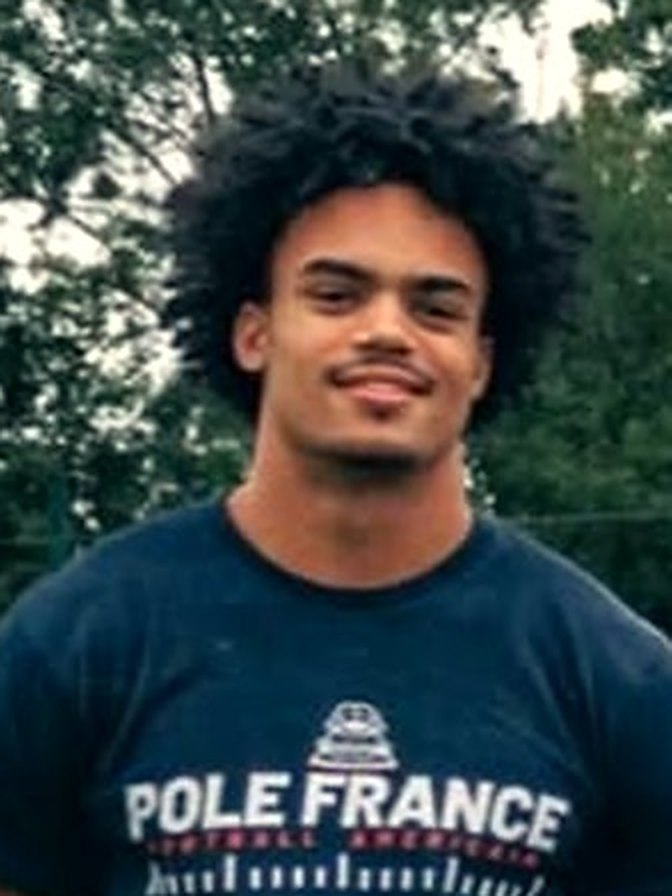
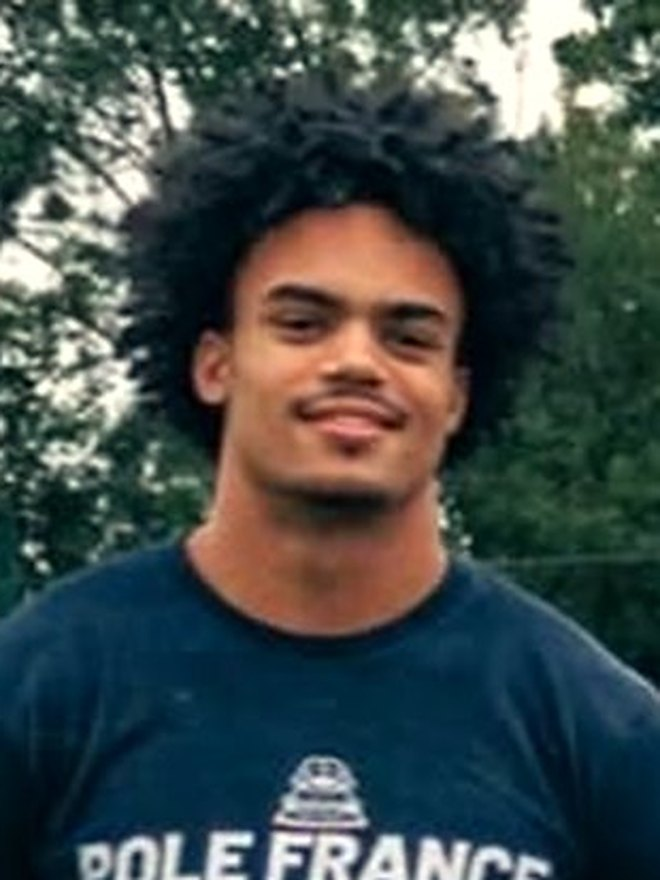
Pôle France photo recentred, garden photo removed, footer credit
- Meet Kenji: Pôle France photo centred with the full hair visible
- Begin page: garden photo removed, form centred
- Footer on every page: website credit linking to sportifhybride.com

Claude-Session: https://claude.ai/code/session_015sta4d6tC7hQHjYkkdC7PH

diff --git a/INNE-site/js/texts.js b/INNE-site/js/texts.js
@@ -319,7 +319,8 @@ window.INNE_I18N = {
   "rv.how_t": "How reviews work",
   "rv.how": "Only clients who have followed an INNÉ path can post, with a personal one-time code. Kenji reads every review before it is published. Reviews are never refused for being negative: only insulting, off-topic or false content, or content revealing personal data, is removed. No review is paid for or rewarded. Reviews are shown from newest to oldest by default, with their publication date.",
   "rv.stars": "{n} out of 5",
-  "rv.verified": "Verified client"
+  "rv.verified": "Verified client",
+  "ft.credit": "Website created by Victor Castillo. Want a site like this one? <a href=\"https://sportifhybride.com/creation-site\" target=\"_blank\" rel=\"noopener\">Click here</a>."
  },
  "es": {
   "nav.home": "Inicio",
@@ -640,7 +641,8 @@ window.INNE_I18N = {
   "rv.how_t": "Cómo funcionan las opiniones",
   "rv.how": "Solo pueden publicar los clientes que han seguido un camino INNÉ, con un código personal de un solo uso. Kenji lee cada opinión antes de publicarla. Nunca se rechaza una opinión por ser negativa: solo se retiran los contenidos insultantes, fuera de tema, falsos o que revelen datos personales. Ninguna opinión se paga ni se recompensa. Por defecto, las opiniones se muestran de la más reciente a la más antigua, con su fecha de publicación.",
   "rv.stars": "{n} de 5",
-  "rv.verified": "Cliente verificado"
+  "rv.verified": "Cliente verificado",
+  "ft.credit": "Sitio web creado por Victor Castillo. ¿Quieres un sitio como este? <a href=\"https://sportifhybride.com/creation-site\" target=\"_blank\" rel=\"noopener\">Haz clic aquí</a>."
  },
  "fr": {
   "nav.home": "Accueil",
@@ -961,7 +963,8 @@ window.INNE_I18N = {
   "rv.how_t": "Comment fonctionnent les avis",
   "rv.how": "Seuls les clients ayant suivi un parcours INNÉ peuvent publier, avec un code personnel à usage unique. Kenji lit chaque avis avant sa publication. Un avis n'est jamais refusé parce qu'il est négatif : seuls les contenus injurieux, hors sujet, faux ou révélant des données personnelles sont écartés. Aucun avis n'est rémunéré ni récompensé. Par défaut, les avis sont affichés du plus récent au plus ancien, avec leur date de publication.",
   "rv.stars": "{n} sur 5",
-  "rv.verified": "Client vérifié"
+  "rv.verified": "Client vérifié",
+  "ft.credit": "Site créé par Victor Castillo. Vous voulez un site comme celui-ci ? <a href=\"https://sportifhybride.com/creation-site\" target=\"_blank\" rel=\"noopener\">Cliquez ici</a>."
  },
  "sv": {
   "nav.home": "Hem",
@@ -1282,7 +1285,8 @@ window.INNE_I18N = {
   "rv.how_t": "Så fungerar omdömena",
   "rv.how": "Bara kunder som har följt en INNÉ-väg kan skriva, med en personlig engångskod. Kenji läser varje omdöme innan det publiceras. Ett omdöme avvisas aldrig för att det är negativt: endast kränkande, ovidkommande eller falskt innehåll, eller innehåll som avslöjar personuppgifter, tas bort. Inga omdömen är betalda eller belönade. Som standard visas omdömena från nyast till äldst, med publiceringsdatum.",
   "rv.stars": "{n} av 5",
-  "rv.verified": "Verifierad kund"
+  "rv.verified": "Verifierad kund",
+  "ft.credit": "Webbplatsen är skapad av Victor Castillo. Vill du ha en sådan här webbplats? <a href=\"https://sportifhybride.com/creation-site\" target=\"_blank\" rel=\"noopener\">Klicka här</a>."
  },
  "de": {
   "nav.home": "Start",
@@ -1603,7 +1607,8 @@ window.INNE_I18N = {
   "rv.how_t": "So funktionieren die Bewertungen",
   "rv.how": "Nur Kundinnen und Kunden, die einen INNÉ-Weg gegangen sind, können mit einem persönlichen Einmalcode eine Bewertung abgeben. Kenji liest jede Bewertung vor der Veröffentlichung. Eine Bewertung wird nie abgelehnt, weil sie negativ ist: Entfernt werden nur beleidigende, themenfremde, falsche oder personenbezogene Inhalte. Keine Bewertung wird bezahlt oder belohnt. Standardmäßig werden die Bewertungen von der neuesten zur ältesten mit ihrem Veröffentlichungsdatum angezeigt.",
   "rv.stars": "{n} von 5",
-  "rv.verified": "Verifizierte Kundin / verifizierter Kunde"
+  "rv.verified": "Verifizierte Kundin / verifizierter Kunde",
+  "ft.credit": "Website erstellt von Victor Castillo. Du willst eine Website wie diese? <a href=\"https://sportifhybride.com/creation-site\" target=\"_blank\" rel=\"noopener\">Hier klicken</a>."
  },
  "it": {
   "nav.home": "Home",
@@ -1924,6 +1929,7 @@ window.INNE_I18N = {
   "rv.how_t": "Come funzionano le recensioni",
   "rv.how": "Possono pubblicare solo i clienti che hanno seguito un percorso INNÉ, con un codice personale monouso. Kenji legge ogni recensione prima della pubblicazione. Una recensione non viene mai rifiutata perché negativa: vengono esclusi solo contenuti offensivi, fuori tema, falsi o che rivelano dati personali. Nessuna recensione è pagata o ricompensata. Per impostazione predefinita le recensioni sono mostrate dalla più recente alla meno recente, con la data di pubblicazione.",
   "rv.stars": "{n} su 5",
-  "rv.verified": "Cliente verificato"
+  "rv.verified": "Cliente verificato",
+  "ft.credit": "Sito creato da Victor Castillo. Vuoi un sito come questo? <a href=\"https://sportifhybride.com/creation-site\" target=\"_blank\" rel=\"noopener\">Clicca qui</a>."
  }
 };

diff --git a/INNE-site/begin.html b/INNE-site/begin.html
@@ -26,7 +26,7 @@
   </div>
 </header>
 <main id="main"><section class="page-hero plain"><div class="wrap"><h1 class="reveal" data-i18n="bg.h1">Begin your <em>journey</em></h1><p class="reveal d1" data-i18n="bg.sub">Tell Kenji where you are and where you want to go. He will reply personally.</p></div></section>
-<section class="section sand"><div class="wrap split" style="align-items:start">
+<section class="section sand"><div class="wrap begin-solo">
   <div>
     <form class="form reveal" data-form="contact">
       <label><span><span data-i18n="fm.name">Full name</span> *</span><input type="text" name="name" required autocomplete="name"></label>
@@ -45,7 +45,6 @@
     </form>
     <p class="form-msg" role="status" hidden></p>
   </div>
-  <div class="frame ratio-45 reveal d1"><img src="img/garden.jpg" alt="Kenji standing barefoot in a garden" loading="lazy" style="object-position:42% 50%"></div>
 </div></section>
 </main>
 <footer class="site-footer">
@@ -63,6 +62,7 @@
       <button type="button" data-cookie-open data-i18n="ft.manage">Cookie settings</button>
     </div>
     <p class="foot-note">© 2026 INNÉ. <span data-i18n="ft.rights">All rights reserved.</span></p>
+    <p class="foot-credit" data-i18n="ft.credit">Website created by Victor Castillo. Want a site like this one? <a href="https://sportifhybride.com/creation-site" target="_blank" rel="noopener">Click here</a>.</p>
   </div>
 </footer>
 <div class="cookie" id="cookie" role="dialog" aria-labelledby="ck-title" tabindex="-1" hidden>

diff --git a/INNE-site/index.html b/INNE-site/index.html
@@ -95,7 +95,7 @@
     <p data-i18n="meet.p2">Today, he helps driven individuals build stronger bodies, clearer minds, and a more grounded, purposeful life — not through quick fixes, but through a sustainable return to what makes us truly human.</p>
     <p style="margin-top:26px"><a class="textlink" href="about.html" data-i18n="meet.link">Read his story</a></p>
   </div>
-  <div class="frame ratio-34 reveal d2"><img src="img/pole-france.jpg" alt="Kenji in his Pôle France T-shirt" loading="lazy" style="object-position:50% 30%"></div>
+  <div class="frame ratio-34 reveal d2"><img src="img/pole-france.jpg" alt="Kenji in his Pôle France T-shirt" loading="lazy" style="object-position:50% 0%"></div>
 </div></section>
 
 <section class="final">
@@ -129,6 +129,7 @@
       <button type="button" data-cookie-open data-i18n="ft.manage">Cookie settings</button>
     </div>
     <p class="foot-note">© 2026 INNÉ. <span data-i18n="ft.rights">All rights reserved.</span></p>
+    <p class="foot-credit" data-i18n="ft.credit">Website created by Victor Castillo. Want a site like this one? <a href="https://sportifhybride.com/creation-site" target="_blank" rel="noopener">Click here</a>.</p>
   </div>
 </footer>
 <div class="cookie" id="cookie" role="dialog" aria-labelledby="ck-title" tabindex="-1" hidden>

diff --git a/INNE-site/css/inne.css b/INNE-site/css/inne.css
@@ -588,3 +588,7 @@ html.nav-compact.nav-open .site-header{background:#0f1c13}
 .rv-rate-stars input:focus-visible+label{outline:2px solid var(--sage);outline-offset:2px;border-radius:4px}
 .form-msg.ok{border-color:#dcc27c;background:rgba(220,194,124,.16)}
 @media (max-width:640px){.rv-row{grid-template-columns:1fr}.rv-right{justify-items:start}.rv-tools{flex-direction:column;align-items:stretch}}
+.begin-solo{max-width:680px}
+.foot-credit{margin-top:8px;font-size:12px;line-height:1.6;opacity:.75}
+.foot-credit a{color:#dcc27c;text-decoration:underline;text-underline-offset:3px}
+.foot-credit a:hover{color:#f6e7b4}

diff --git a/INNE-site/cookies.html b/INNE-site/cookies.html
@@ -142,6 +142,7 @@
       <button type="button" data-cookie-open data-i18n="ft.manage">Cookie settings</button>
     </div>
     <p class="foot-note">© 2026 INNÉ. <span data-i18n="ft.rights">All rights reserved.</span></p>
+    <p class="foot-credit" data-i18n="ft.credit">Website created by Victor Castillo. Want a site like this one? <a href="https://sportifhybride.com/creation-site" target="_blank" rel="noopener">Click here</a>.</p>
   </div>
 </footer>
 <div class="cookie" id="cookie" role="dialog" aria-labelledby="ck-title" tabindex="-1" hidden>

diff --git a/INNE-site/legal.html b/INNE-site/legal.html
@@ -214,6 +214,7 @@
       <button type="button" data-cookie-open data-i18n="ft.manage">Cookie settings</button>
     </div>
     <p class="foot-note">© 2026 INNÉ. <span data-i18n="ft.rights">All rights reserved.</span></p>
+    <p class="foot-credit" data-i18n="ft.credit">Website created by Victor Castillo. Want a site like this one? <a href="https://sportifhybride.com/creation-site" target="_blank" rel="noopener">Click here</a>.</p>
   </div>
 </footer>
 <div class="cookie" id="cookie" role="dialog" aria-labelledby="ck-title" tabindex="-1" hidden>

diff --git a/INNE-site/privacy.html b/INNE-site/privacy.html
@@ -226,6 +226,7 @@
       <button type="button" data-cookie-open data-i18n="ft.manage">Cookie settings</button>
     </div>
     <p class="foot-note">© 2026 INNÉ. <span data-i18n="ft.rights">All rights reserved.</span></p>
+    <p class="foot-credit" data-i18n="ft.credit">Website created by Victor Castillo. Want a site like this one? <a href="https://sportifhybride.com/creation-site" target="_blank" rel="noopener">Click here</a>.</p>
   </div>
 </footer>
 <div class="cookie" id="cookie" role="dialog" aria-labelledby="ck-title" tabindex="-1" hidden>

diff --git a/INNE-site/terms.html b/INNE-site/terms.html
@@ -244,6 +244,7 @@
       <button type="button" data-cookie-open data-i18n="ft.manage">Cookie settings</button>
     </div>
     <p class="foot-note">© 2026 INNÉ. <span data-i18n="ft.rights">All rights reserved.</span></p>
+    <p class="foot-credit" data-i18n="ft.credit">Website created by Victor Castillo. Want a site like this one? <a href="https://sportifhybride.com/creation-site" target="_blank" rel="noopener">Click here</a>.</p>
   </div>
 </footer>
 <div class="cookie" id="cookie" role="dialog" aria-labelledby="ck-title" tabindex="-1" hidden>

diff --git a/INNE-site/about-you.html b/INNE-site/about-you.html
@@ -91,6 +91,7 @@
       <button type="button" data-cookie-open data-i18n="ft.manage">Cookie settings</button>
     </div>
     <p class="foot-note">© 2026 INNÉ. <span data-i18n="ft.rights">All rights reserved.</span></p>
+    <p class="foot-credit" data-i18n="ft.credit">Website created by Victor Castillo. Want a site like this one? <a href="https://sportifhybride.com/creation-site" target="_blank" rel="noopener">Click here</a>.</p>
   </div>
 </footer>
 <div class="cookie" id="cookie" role="dialog" aria-labelledby="ck-title" tabindex="-1" hidden>

diff --git a/INNE-site/about.html b/INNE-site/about.html
@@ -99,6 +99,7 @@
       <button type="button" data-cookie-open data-i18n="ft.manage">Cookie settings</button>
     </div>
     <p class="foot-note">© 2026 INNÉ. <span data-i18n="ft.rights">All rights reserved.</span></p>
+    <p class="foot-credit" data-i18n="ft.credit">Website created by Victor Castillo. Want a site like this one? <a href="https://sportifhybride.com/creation-site" target="_blank" rel="noopener">Click here</a>.</p>
   </div>
 </footer>
 <div class="cookie" id="cookie" role="dialog" aria-labelledby="ck-title" tabindex="-1" hidden>

diff --git a/INNE-site/checkout.html b/INNE-site/checkout.html
@@ -63,6 +63,7 @@
       <button type="button" data-cookie-open data-i18n="ft.manage">Cookie settings</button>
     </div>
     <p class="foot-note">© 2026 INNÉ. <span data-i18n="ft.rights">All rights reserved.</span></p>
+    <p class="foot-credit" data-i18n="ft.credit">Website created by Victor Castillo. Want a site like this one? <a href="https://sportifhybride.com/creation-site" target="_blank" rel="noopener">Click here</a>.</p>
   </div>
 </footer>
 <div class="cookie" id="cookie" role="dialog" aria-labelledby="ck-title" tabindex="-1" hidden>

diff --git a/INNE-site/experience.html b/INNE-site/experience.html
@@ -67,6 +67,7 @@
       <button type="button" data-cookie-open data-i18n="ft.manage">Cookie settings</button>
     </div>
     <p class="foot-note">© 2026 INNÉ. <span data-i18n="ft.rights">All rights reserved.</span></p>
+    <p class="foot-credit" data-i18n="ft.credit">Website created by Victor Castillo. Want a site like this one? <a href="https://sportifhybride.com/creation-site" target="_blank" rel="noopener">Click here</a>.</p>
   </div>
 </footer>
 <div class="cookie" id="cookie" role="dialog" aria-labelledby="ck-title" tabindex="-1" hidden>
